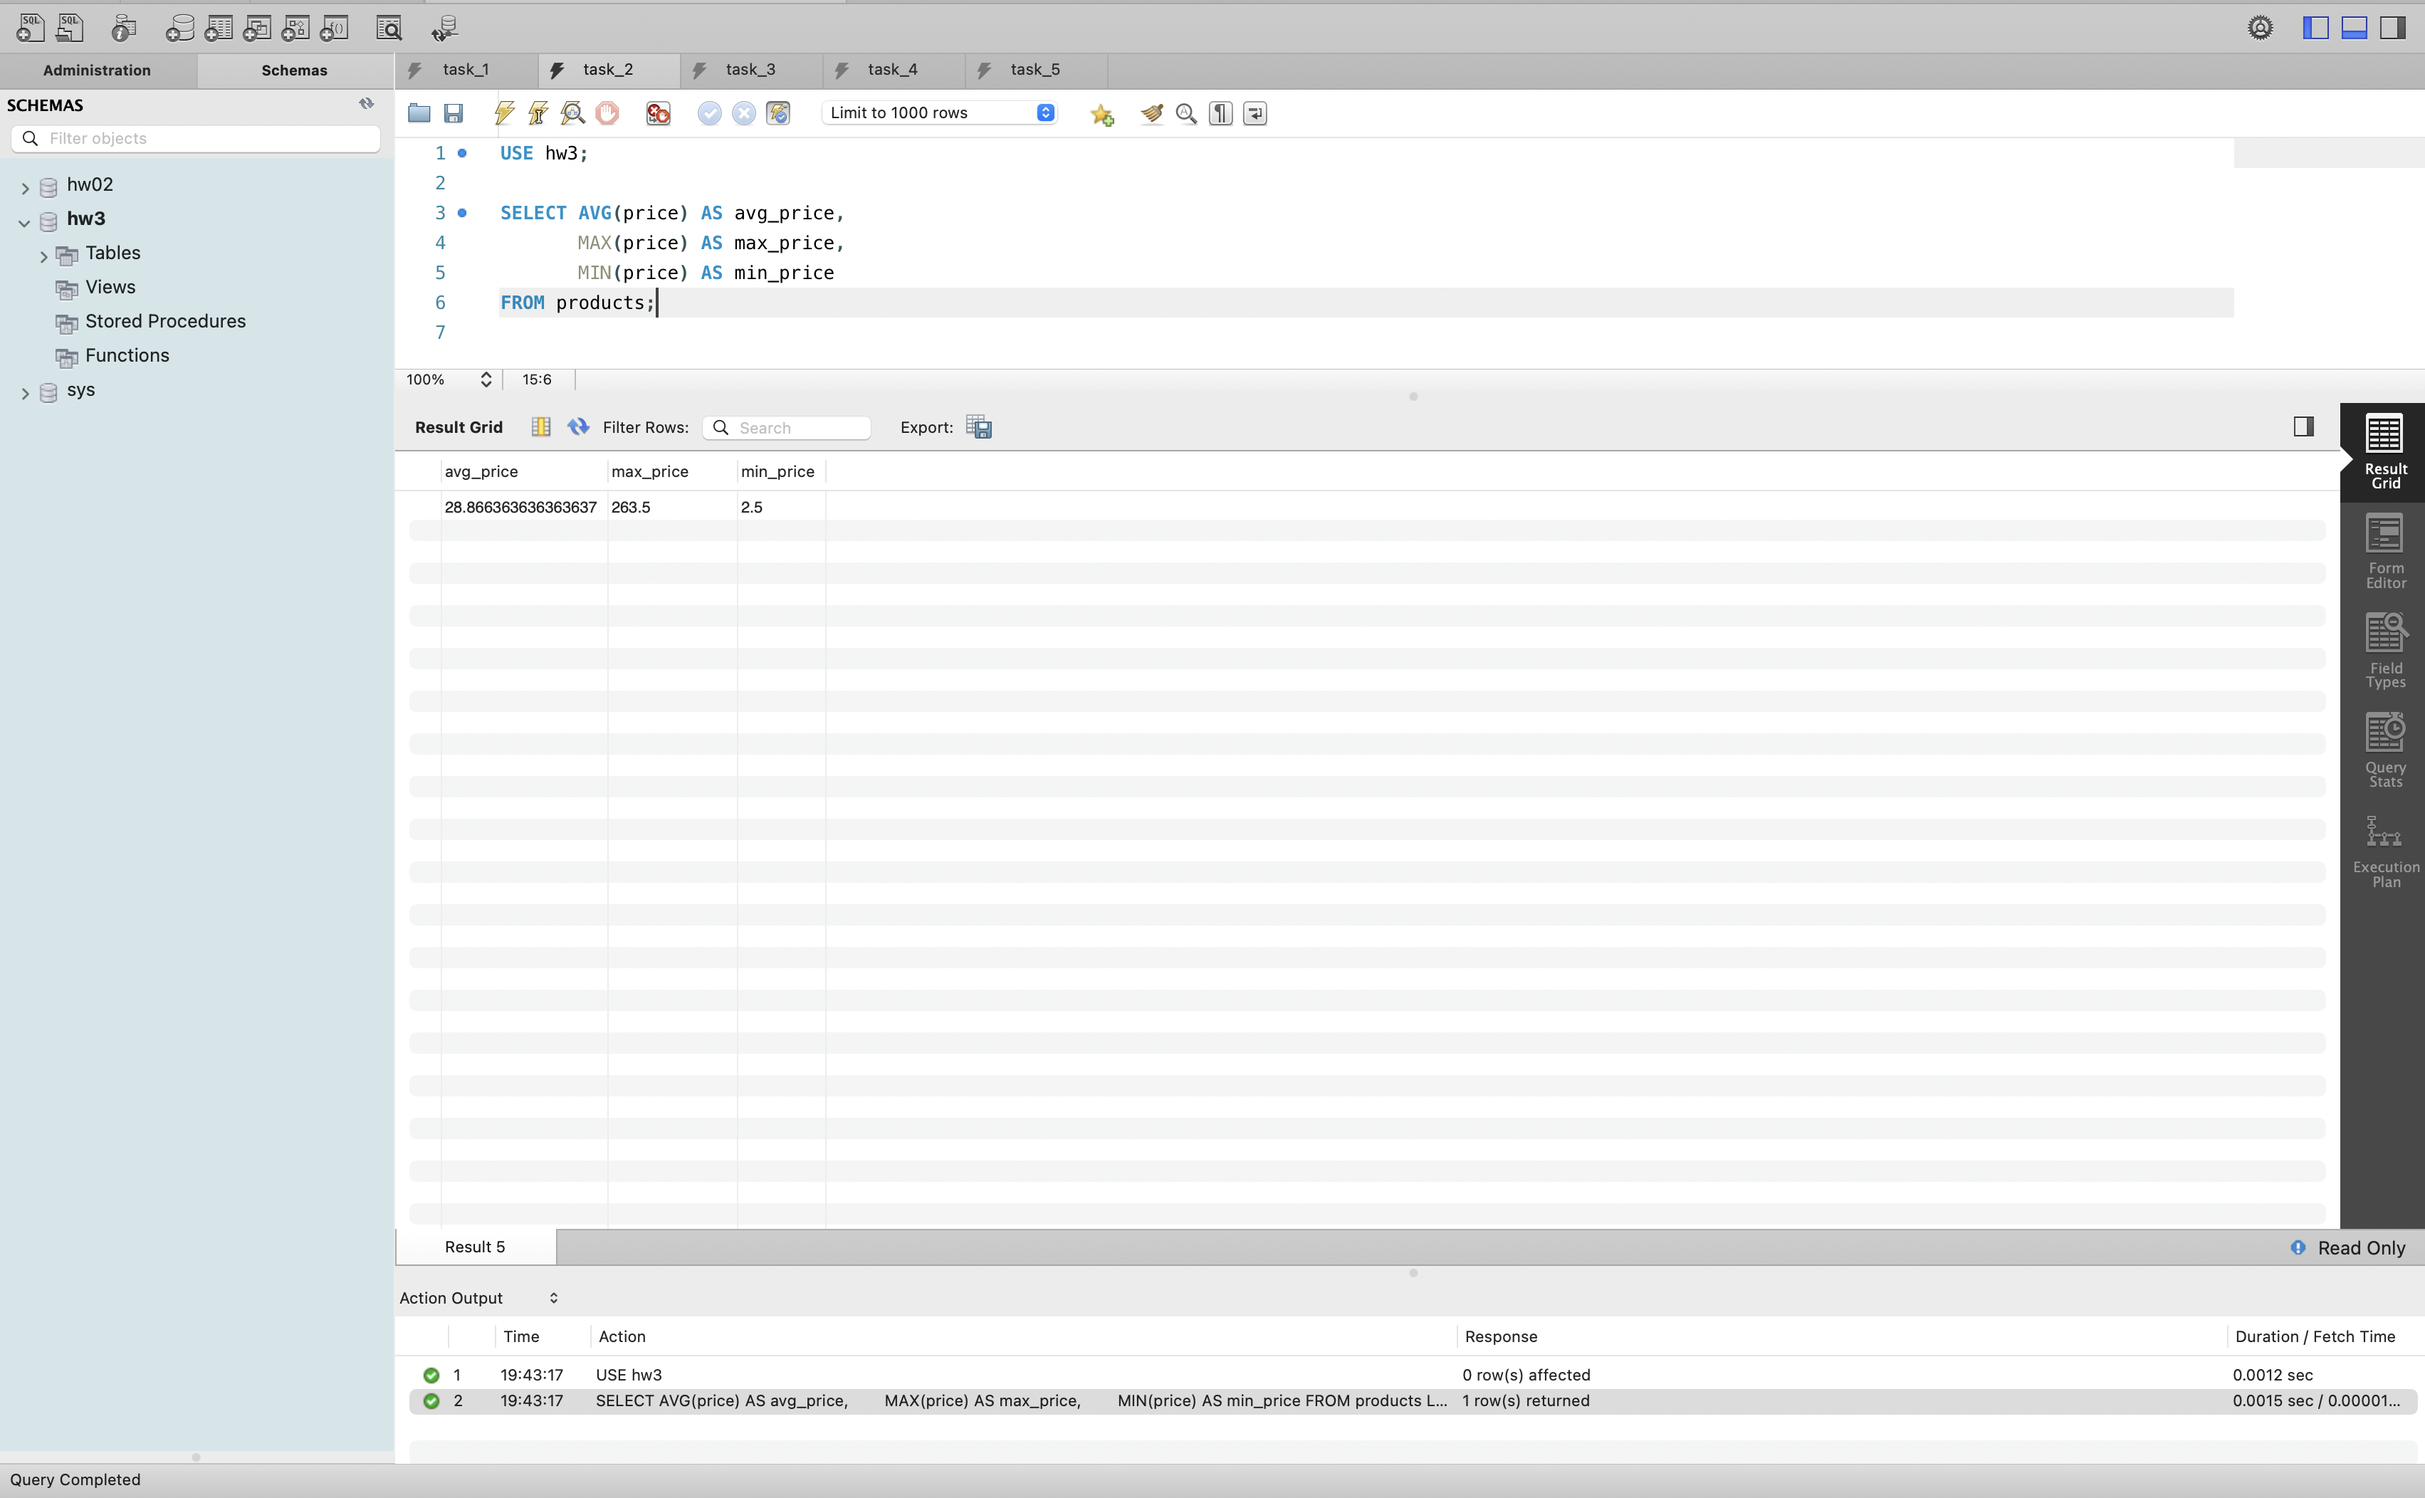
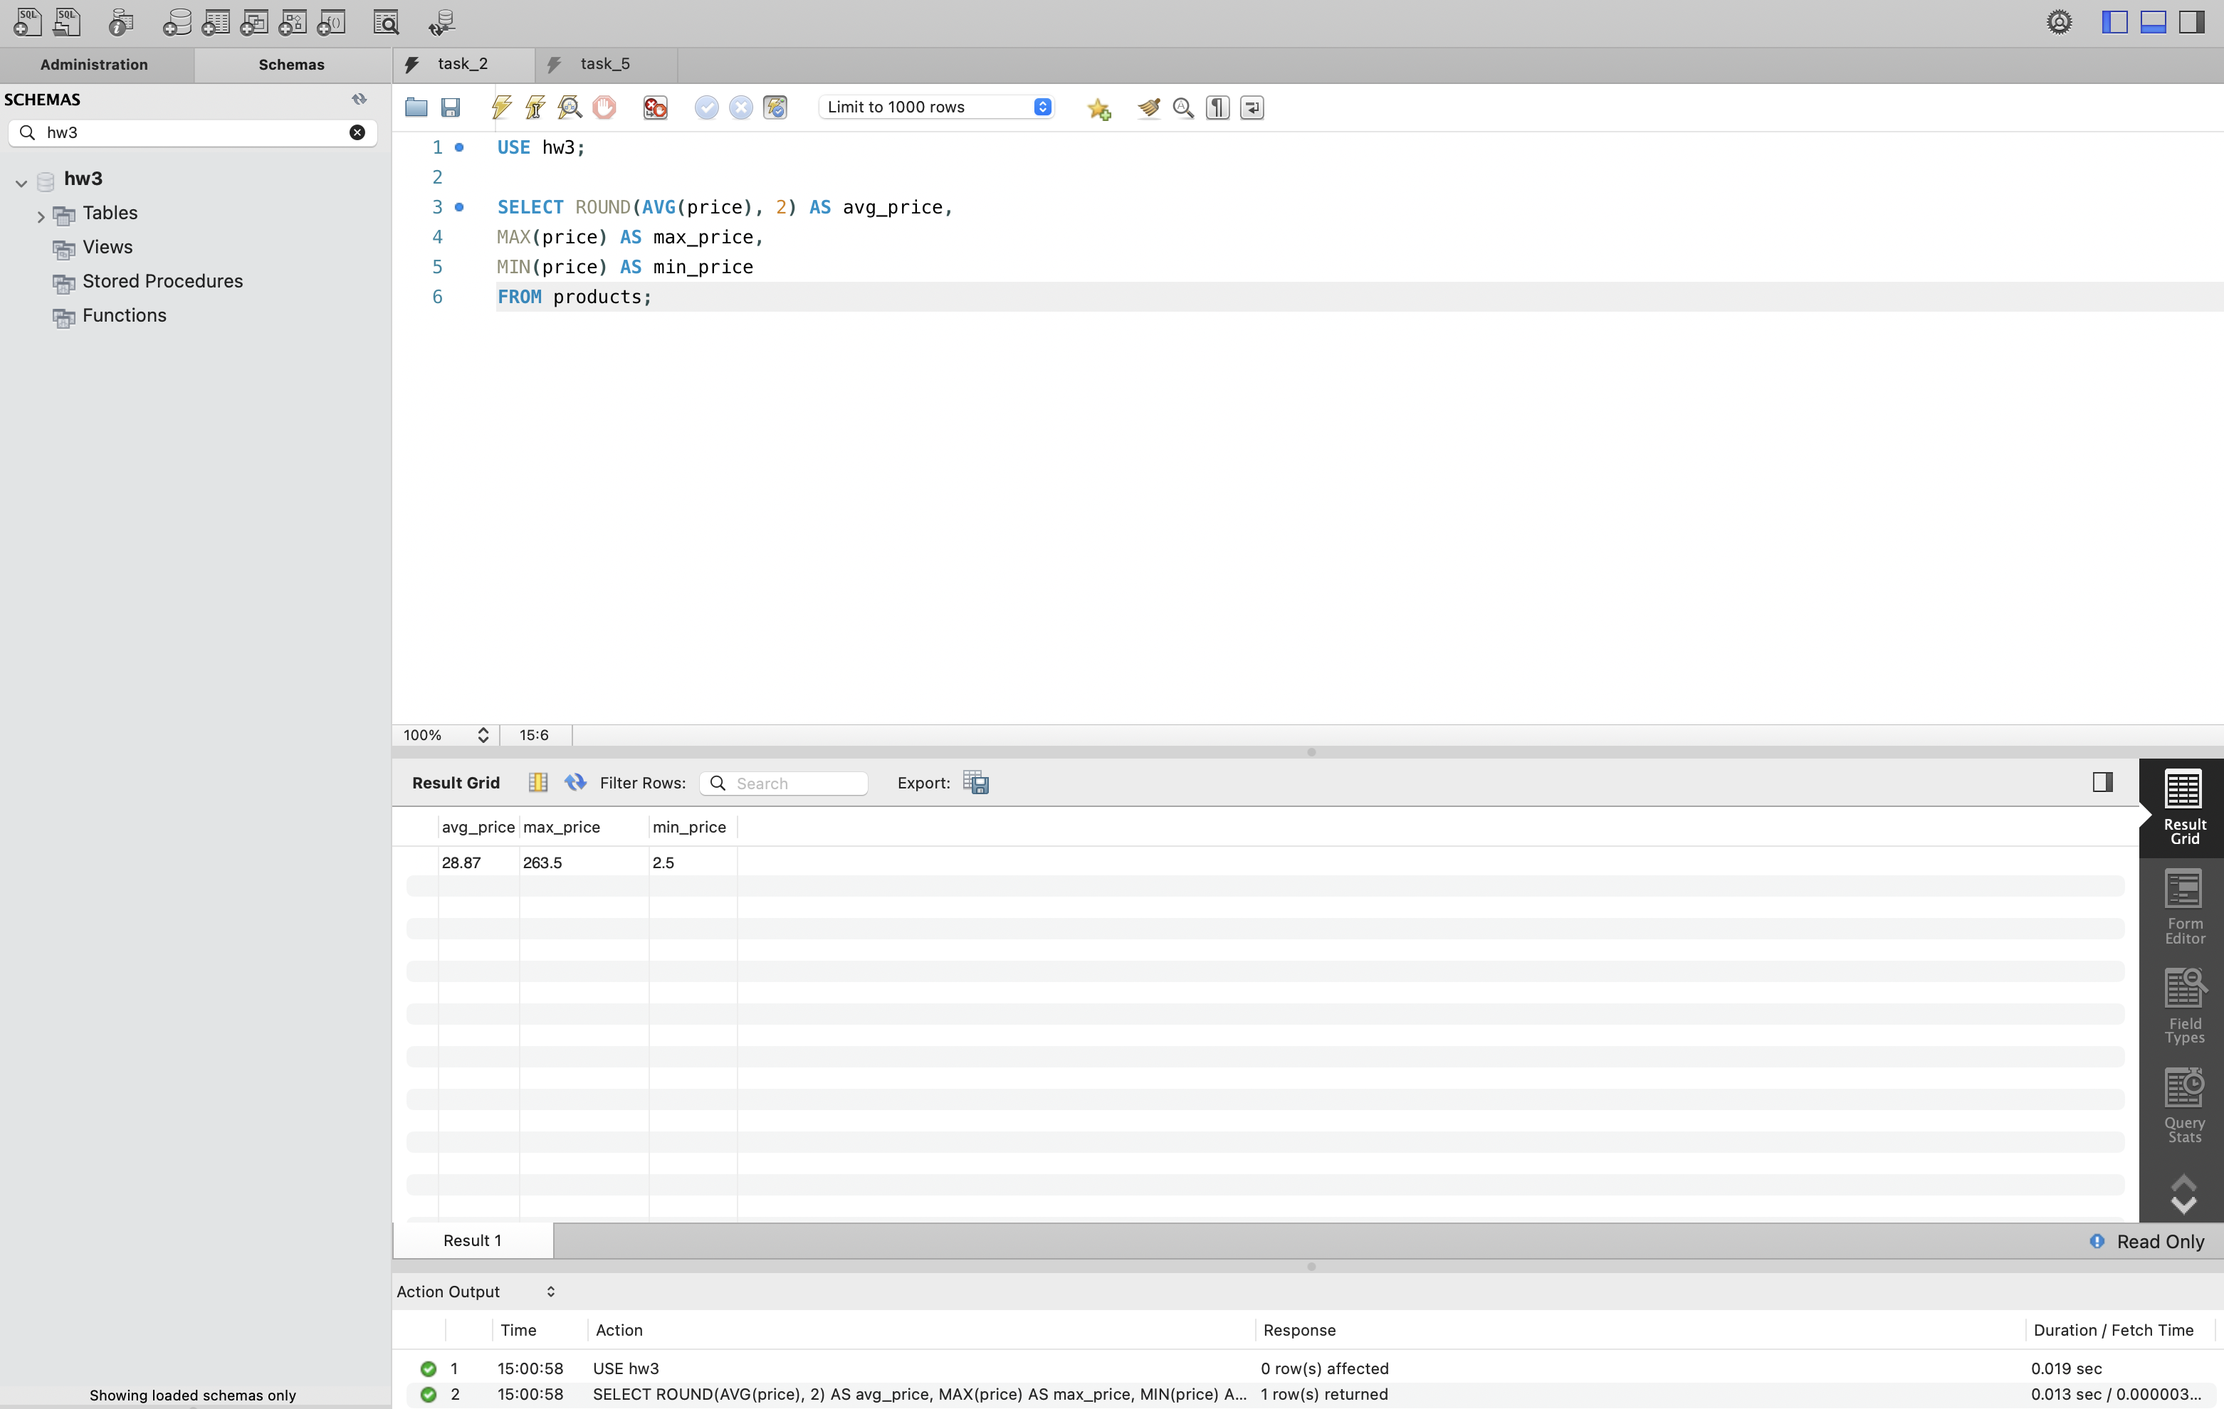
move SQL to separate folder, add file links to README

diff --git a/README.md b/README.md
@@ -3,17 +3,27 @@
 ДЗ з РБД: SQL запити у MySQL
 
 ## Завдання №1
+Вибірка всіх стовпчиків з products і стовпчиків name, phone з shippers: [task_1.sql](sql/task_1.sql)
+
 ![](screenshots/p1_select_all_products.png)
 ![](screenshots/p1_select_shippers_name_phone.png)
 
 ## Завдання №2
+Середнє, максимальне та мінімальне значення price у products: [task_2.sql](sql/task_2.sql)
+
 ![](screenshots/p2_avg_max_min_price.png)
 
 ## Завдання №3
+Унікальні значення category_id та price, сортування за спаданням price, 10 рядків: [task_3.sql](sql/task_3.sql)
+
 ![](screenshots/p3_distinct_category_price.png)
 
 ## Завдання №4
+Кількість продуктів з ціною від 20 до 100: [task_4.sql](sql/task_4.sql)
+
 ![](screenshots/p4_count_price_20_100.png)
 
 ## Завдання №5
+Кількість продуктів і середня ціна для кожного supplier_id: [task_5.sql](sql/task_5.sql)
+
 ![](screenshots/p5_suppliers_count_avg_price.png)
